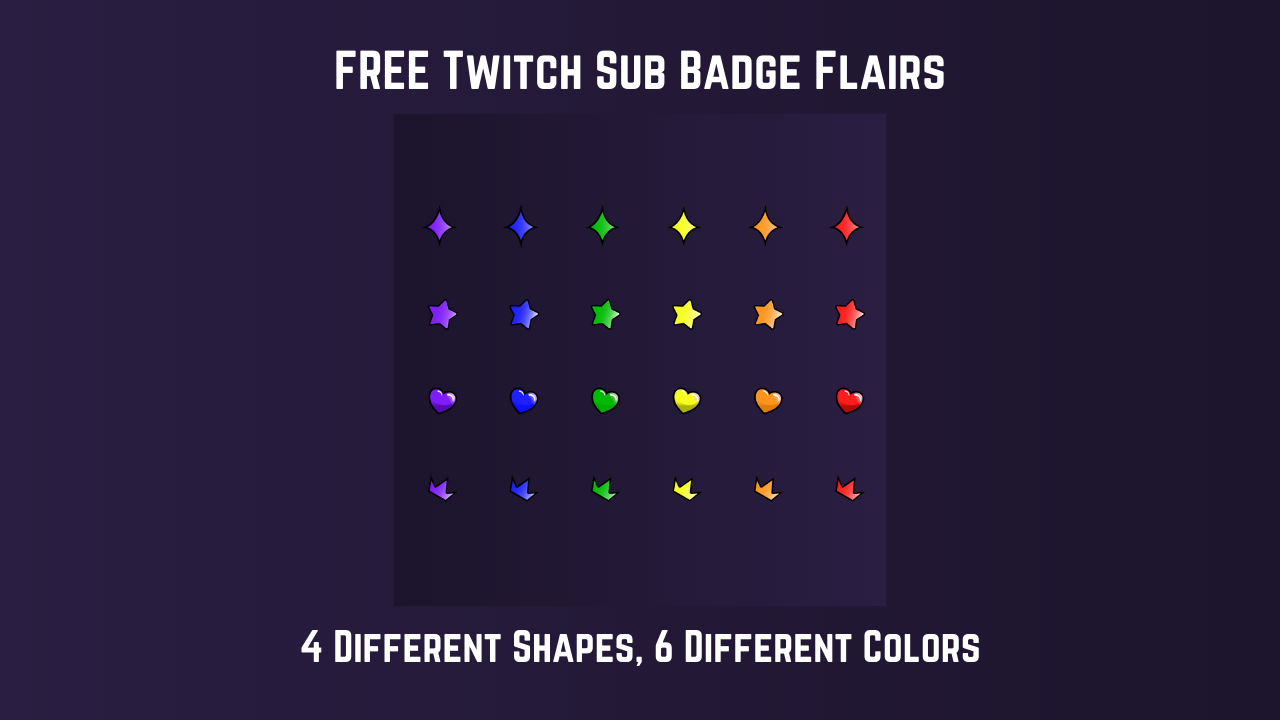
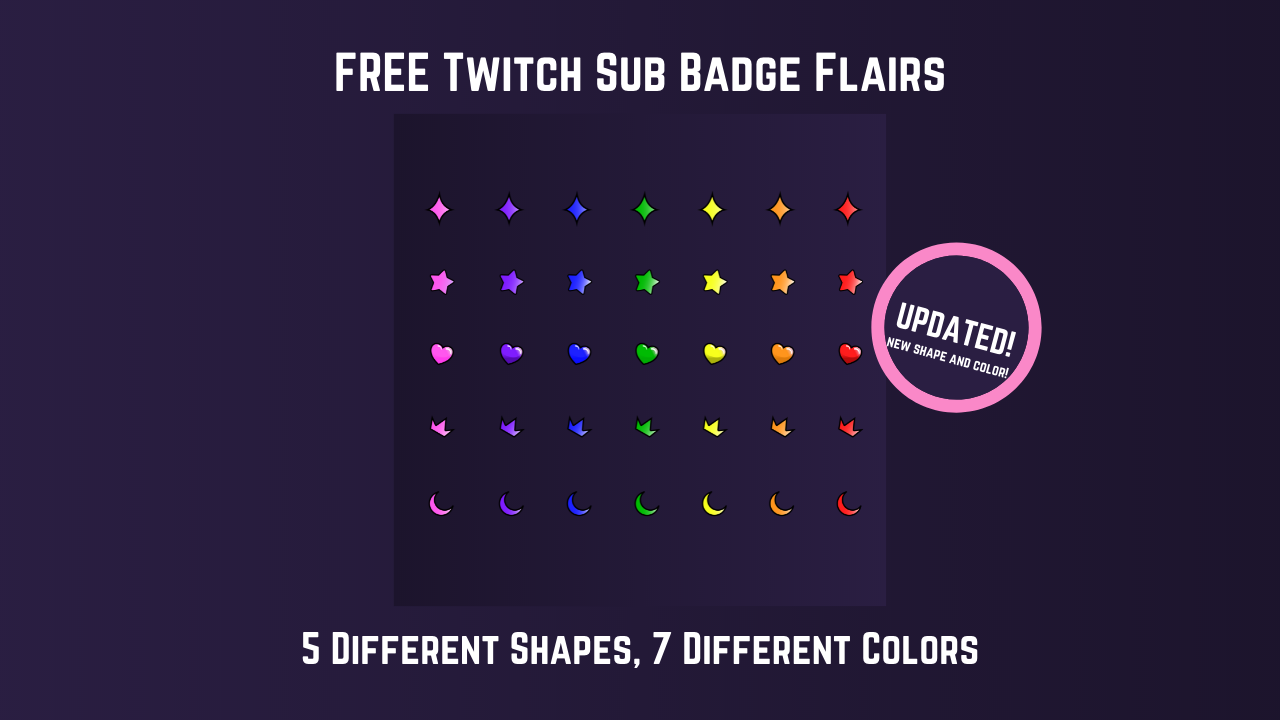
Badge Flair Update

diff --git a/src/site/posts/free-twitch-badge-flairs.md b/src/site/posts/free-twitch-badge-flairs.md
@@ -12,17 +12,17 @@ tags:
 image_card: /images/free-twitch-sub-badge-flairs.png
 image_card_alt: Free Twitch Sub Badge Flairs
 excerpt: >-
-  This pack of 24 Twitch Sub Badge Flairs is Pay What You
+  This pack of 35 Twitch Sub Badge Flairs is Pay What You
   Want, meaning if you want to get it for free all you have to do is put Zero in
   the price! If you'd like you can read the [thread on
   Twitter](https://twitter.com/FatsackFails/status/1283871221499781120) where I
   discuss making these. [Grab them now](https://gumroad.com/l/FeZPc?wanted=true), or read for more details!
 teaser: Let your Tier 2 and Tier 3 Subs stand out with these Badge Flairs!
 seo_title: Fatsack's Freebies 03 - FREE Twitch Sub Badge Flairs
-seo_desc: This pack of 24 Sub Badge Flairs for Twitch steamers lets their Tier 2
-  and Tier 3 Subs stand out! 24 different options in 6 different colors!
+seo_desc: This pack of 35 Sub Badge Flairs for Twitch steamers lets their Tier 2
+  and Tier 3 Subs stand out! 5 different shapes in 7 different colors!
 ---
-Let your Tier 2 and Tier 3 Subs stand out with these Badge Flairs! Your choice of 24 different choices in 6 different colors!
+Let your Tier 2 and Tier 3 Subs stand out with these Badge Flairs! Your choice of 5 different shapes in 7 different colors!
 
 Use the source file to personalize them with brand colors, change out shapes, or just peek under the hood at how you might want to go about making Badge Flairs yourself. If you like these flairs, **please rate them**! This helps get more eyeballs on my work. Thank you everyone for downloading and rating!
 
